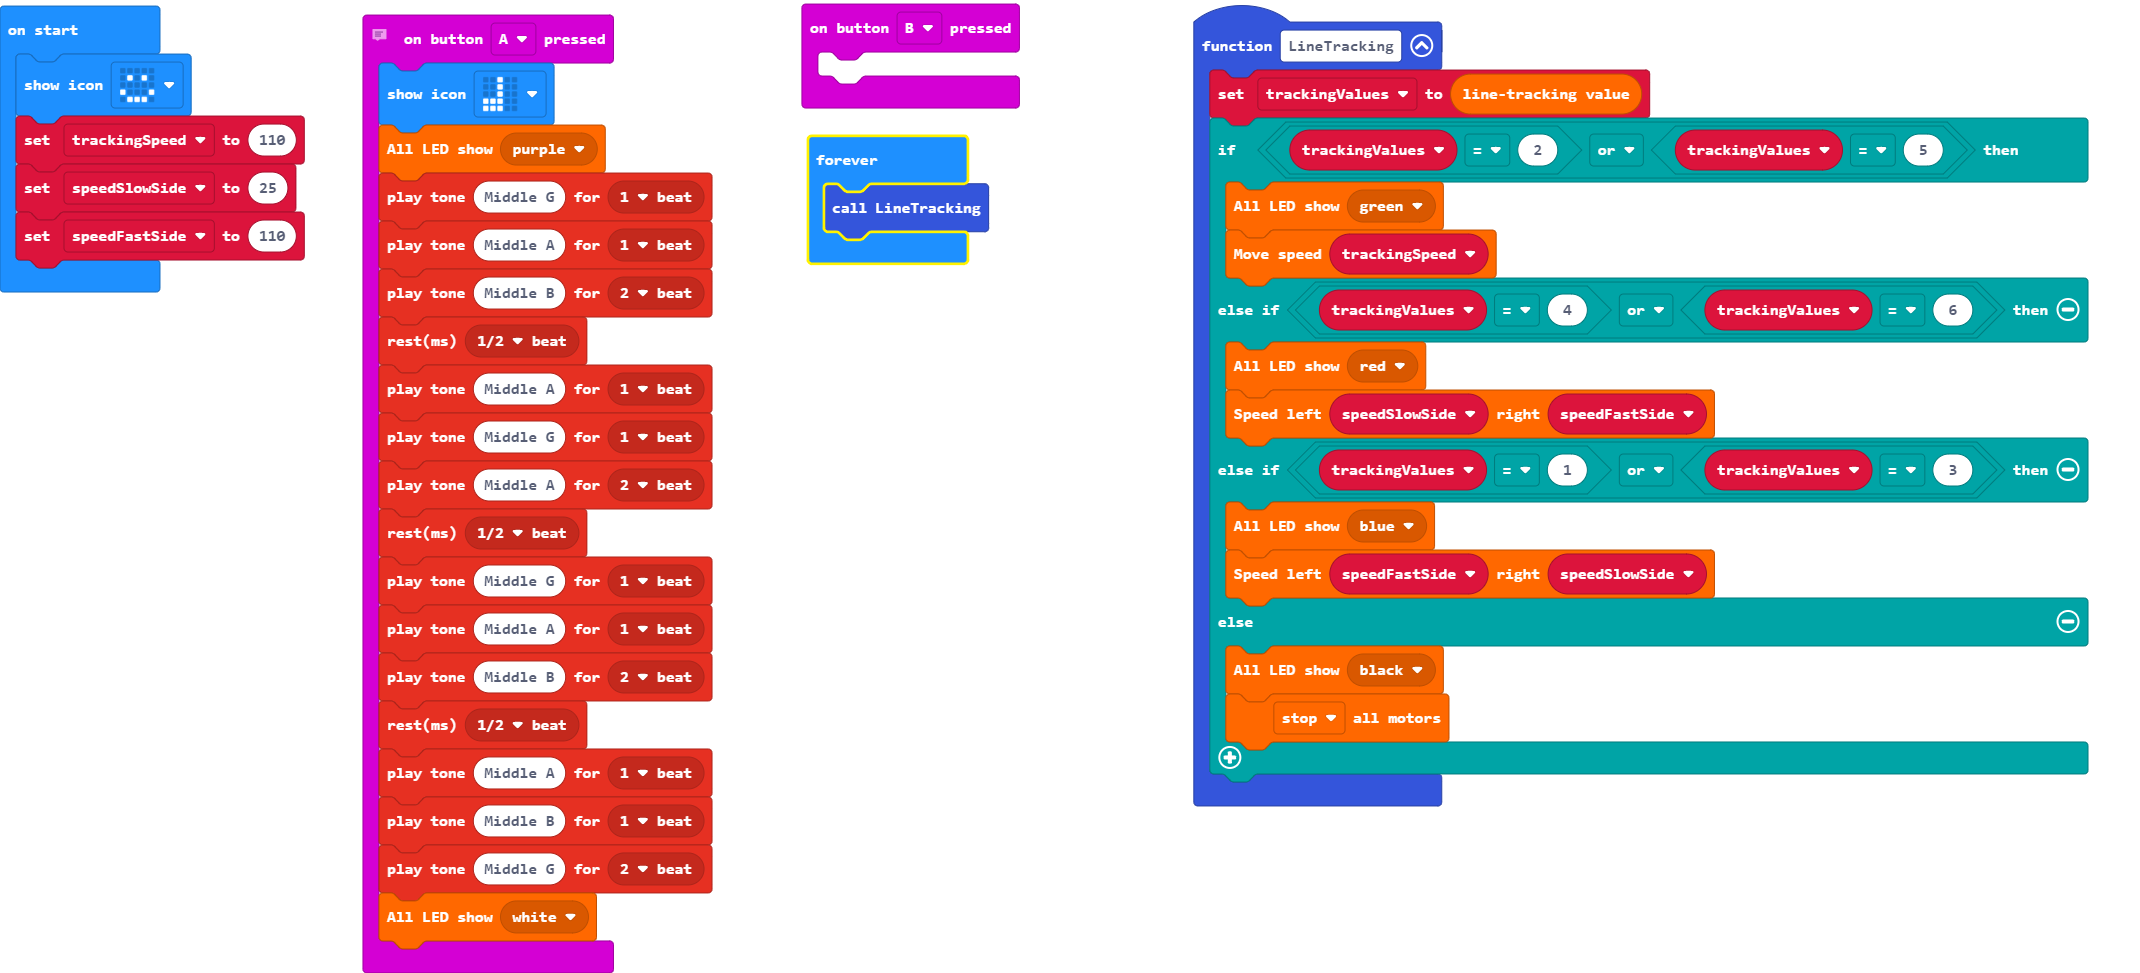
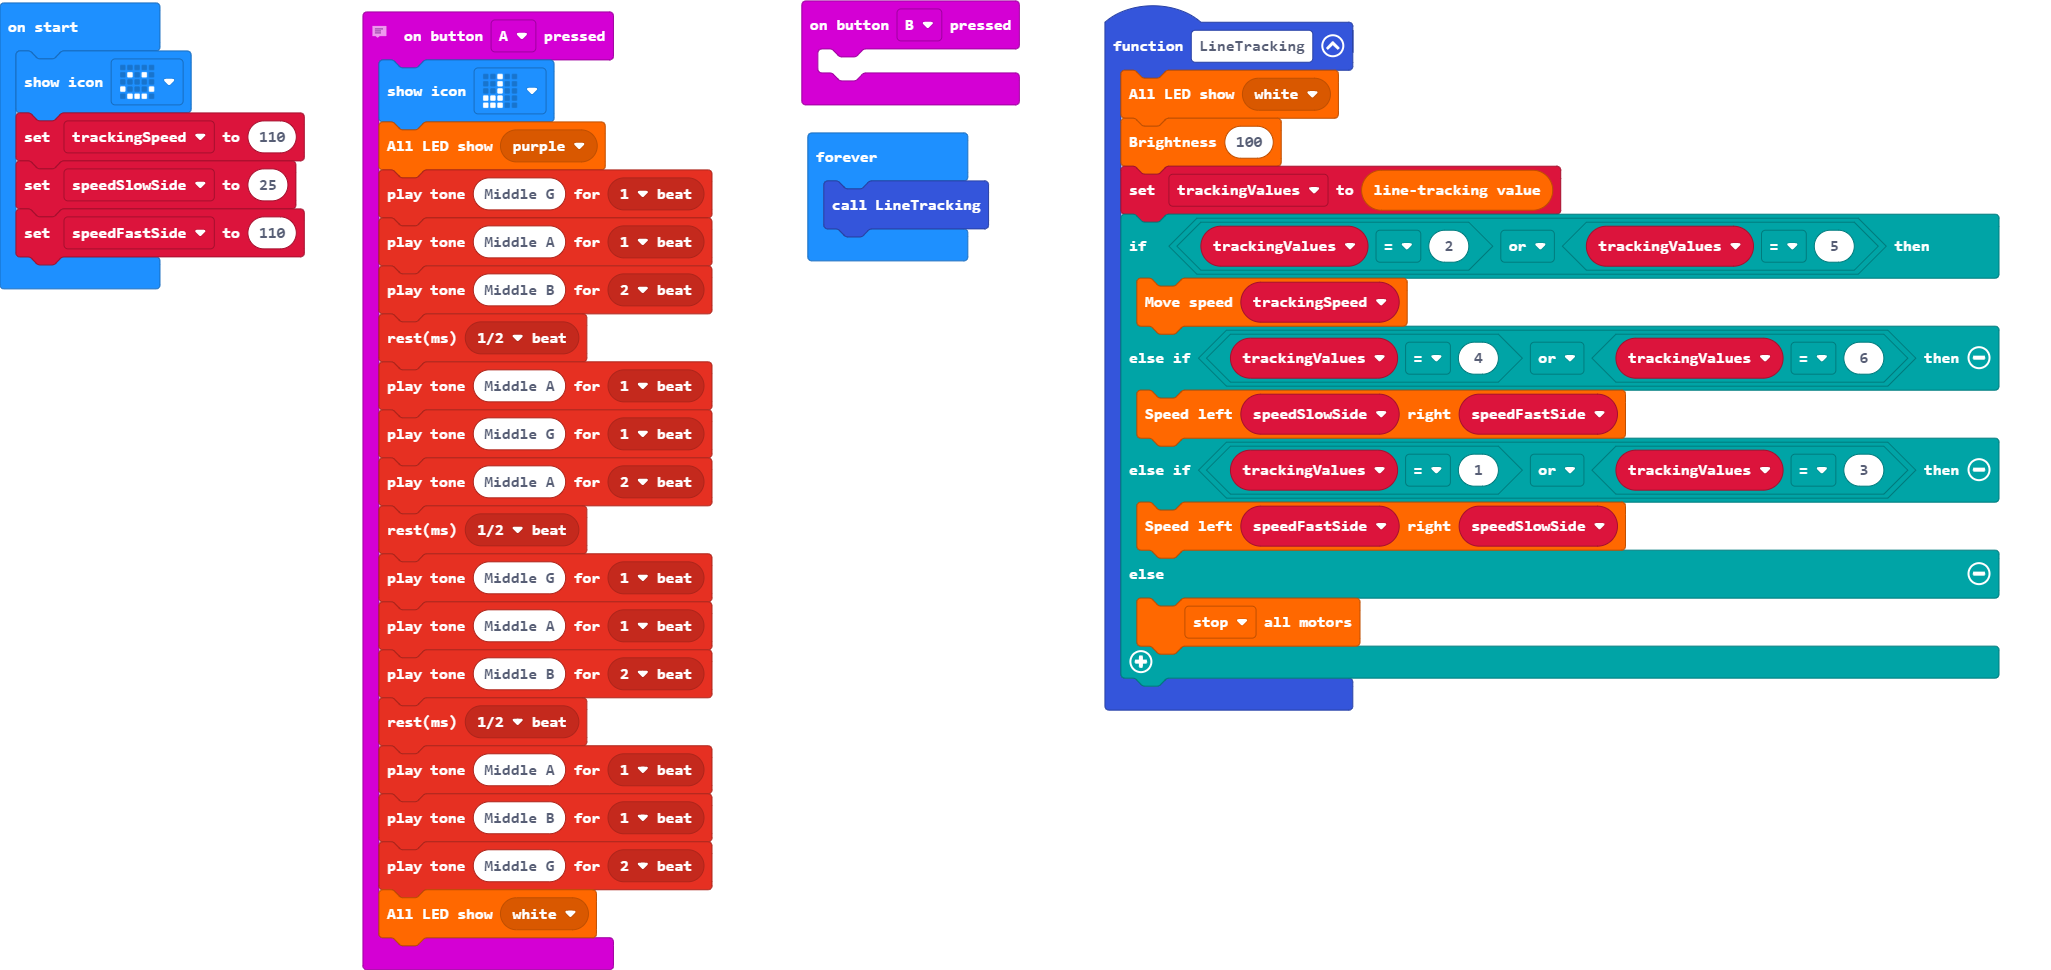
show white LEDs to remove shadows

diff --git a/main.ts b/main.ts
@@ -1,16 +1,14 @@
 function LineTracking () {
+    Rover.setALLRGB(Rover.colors(RoverColors.White))
+    Rover.setBrightness(100)
     trackingValues = Rover.LineTracking()
     if (trackingValues == 2 || trackingValues == 5) {
-        Rover.setALLRGB(Rover.colors(RoverColors.Green))
         Rover.Move(trackingSpeed)
     } else if (trackingValues == 4 || trackingValues == 6) {
-        Rover.setALLRGB(Rover.colors(RoverColors.Red))
         Rover.MotorRunDual(speedSlowSide, speedFastSide)
     } else if (trackingValues == 1 || trackingValues == 3) {
-        Rover.setALLRGB(Rover.colors(RoverColors.Blue))
         Rover.MotorRunDual(speedFastSide, speedSlowSide)
     } else {
-        Rover.setALLRGB(Rover.colors(RoverColors.Black))
         Rover.MotorStopAll(MotorActions.Stop)
     }
 }
